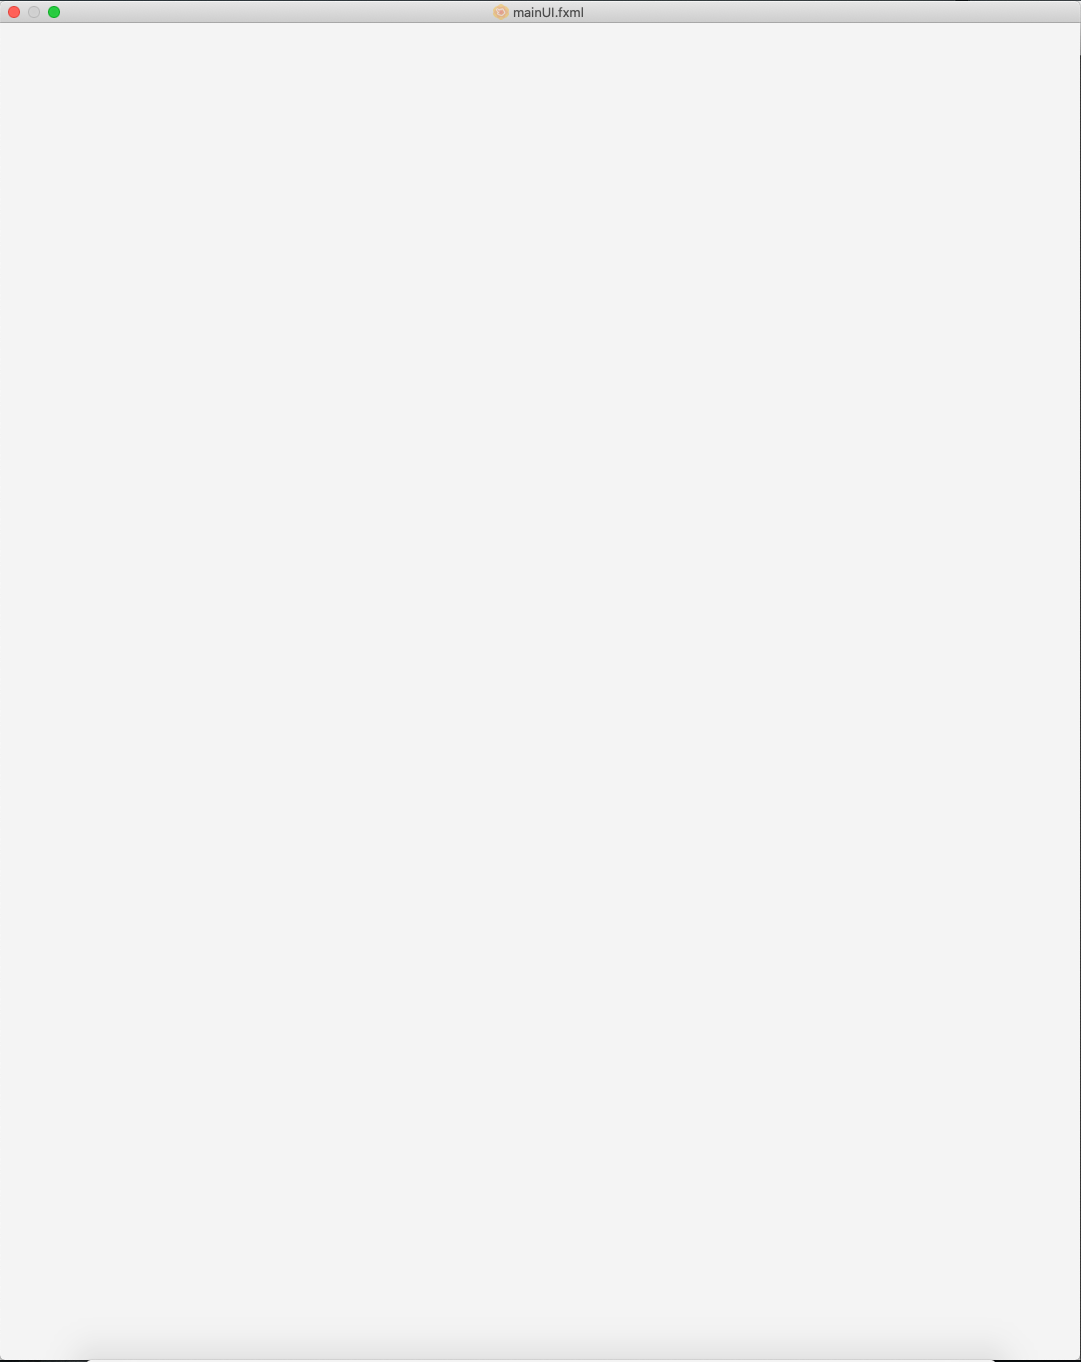
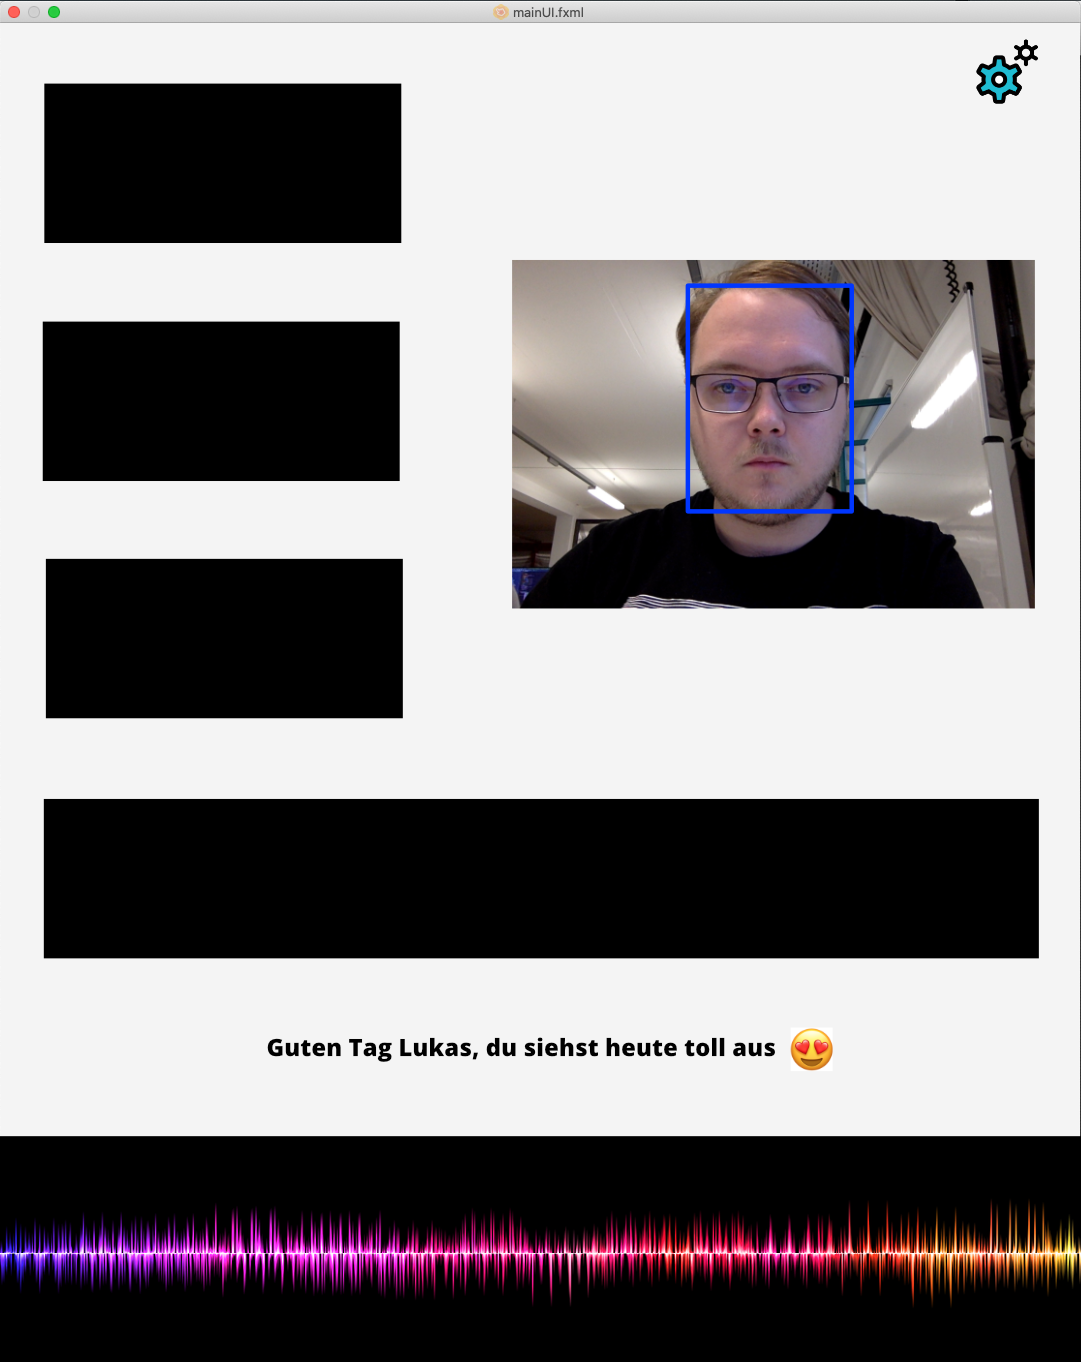
made mockups

diff --git a/mockups/design.md b/mockups/design.md
@@ -1,0 +1,5 @@
+# Schriftart
+Open Sans
+
+# Colors
+
